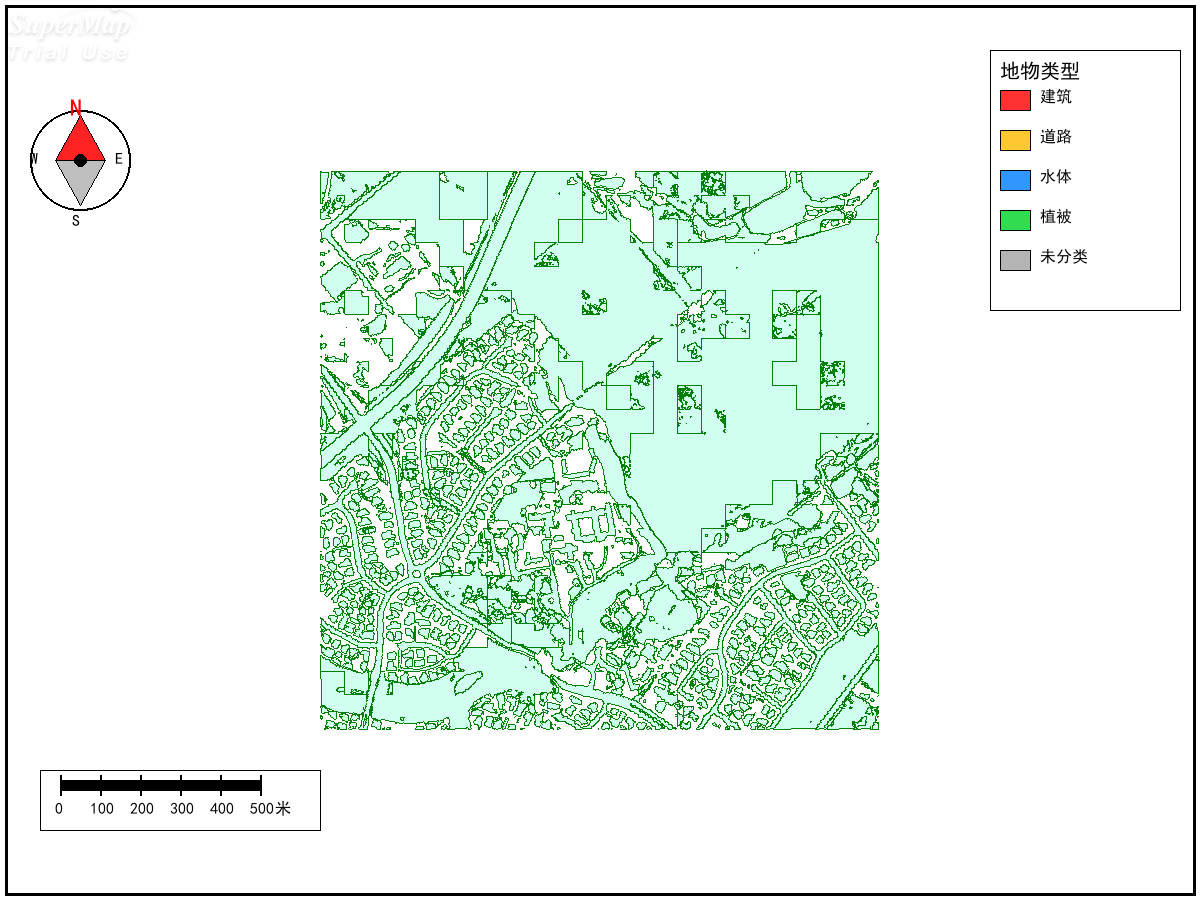
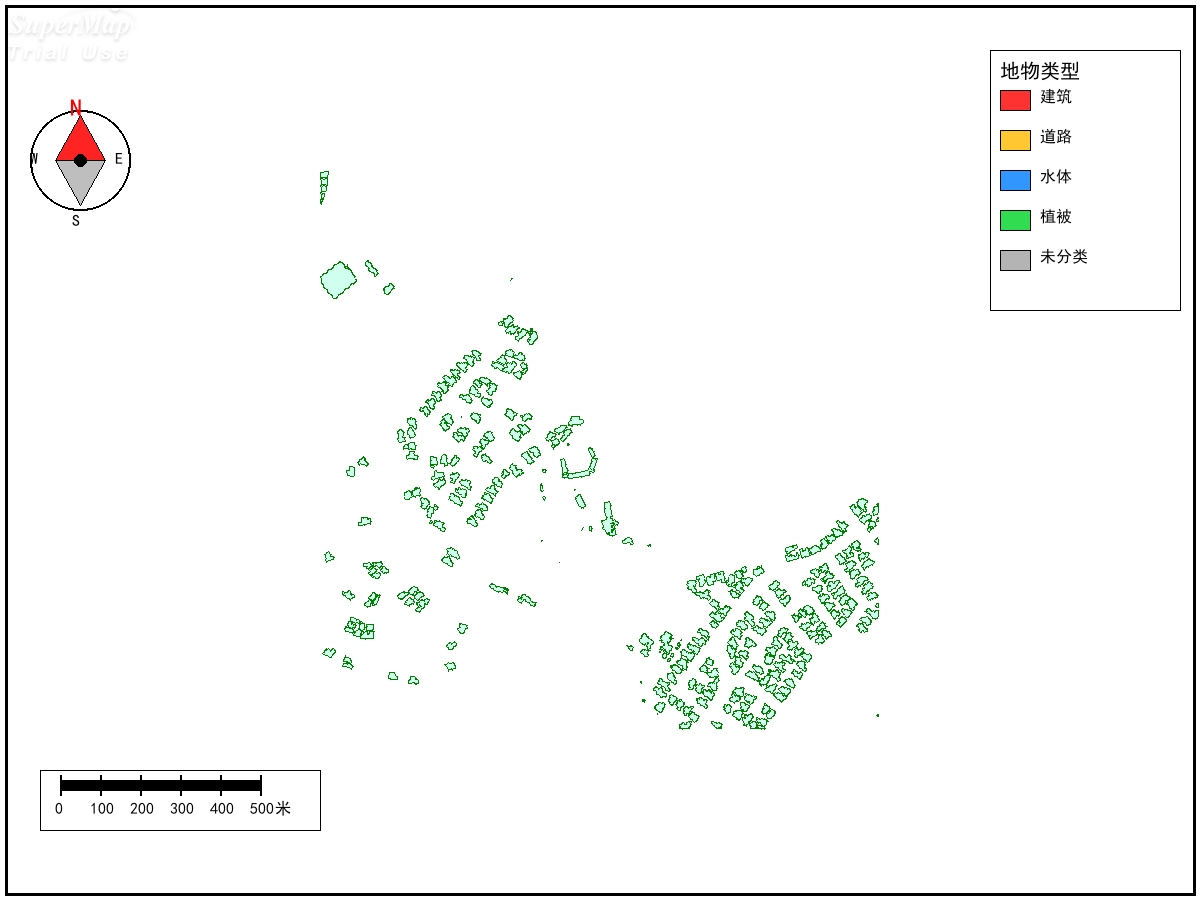
删除未接入的精度验证接口，更新专题图示例图

Changed region(s): [[0.2467, 0.1867, 0.74, 0.8089]]

diff --git a/变化检测/src/change_detection_ui.py b/变化检测/src/change_detection_ui.py
@@ -260,7 +260,7 @@ class MainWindow(QMainWindow):
         self._mode = M_DETECT
         self._sub_detect = 0   # 0=单次 1=增强 2=分类 3=矢量
         self._sub_batch = 0    # 0=CSV 1=文件夹 2=仪表盘 3=报告
-        self._sub_result = 0   # 0=对比 1=属性 2=精度 3=专题 4=导出
+        self._sub_result = 0   # 0=对比 1=属性 2=专题 3=导出
 
         self._build_menubar()
         self._build_toolbar()
@@ -341,7 +341,7 @@ class MainWindow(QMainWindow):
 
         # 结果工具
         self.result_menu = mb.addMenu("结果工具")
-        for name, idx in [("影像对比", 0), ("属性浏览", 1), ("精度验证", 2), ("专题图", 3), ("导出", 4)]:
+        for name, idx in [("影像对比", 0), ("属性浏览", 1), ("专题图", 2), ("导出", 3)]:
             a = QAction(name, self)
             a.triggered.connect(lambda _, i=idx: self._switch_panel(M_RESULT, i))
             self.result_menu.addAction(a)
@@ -411,7 +411,6 @@ class MainWindow(QMainWindow):
         self._result_panels = QStackedWidget()
         self._result_panels.addWidget(self._panel_preview())
         self._result_panels.addWidget(self._panel_table())
-        self._result_panels.addWidget(self._panel_accuracy())
         self._result_panels.addWidget(self._panel_thematic())
         self._result_panels.addWidget(self._panel_export())
         self._panel_stack.addWidget(self._result_panels)
@@ -636,32 +635,6 @@ class MainWindow(QMainWindow):
         ly.addWidget(g); ly.addStretch()
         self._log("属性浏览 — 选择数据源后点击运行", "dim"); return w
 
-    def _panel_accuracy(self):
-        w = QWidget(); ly = QVBoxLayout(w); ly.setContentsMargins(20, 16, 20, 16); ly.setSpacing(10)
-        g = QGroupBox("精度验证"); gl = QVBoxLayout(g); gl.setSpacing(8)
-        self._acc_det = QLineEdit(); self._acc_gt = QLineEdit()
-        gl.addLayout(self._row("检测结果", self._acc_det,
-            lambda: self._open_file(self._acc_det, "UDBX (*.udbx)")))
-        gl.addLayout(self._row("真值数据", self._acc_gt,
-            lambda: self._open_file(self._acc_gt, "矢量 (*.udbx *.shp)")))
-        th_r = QHBoxLayout(); th_r.addWidget(QLabel("IoU阈值"))
-        self._acc_th = QDoubleSpinBox(); self._acc_th.setRange(0.1, 1.0)
-        self._acc_th.setValue(0.5); self._acc_th.setSingleStep(0.05)
-        th_r.addWidget(self._acc_th); th_r.addStretch(); gl.addLayout(th_r)
-        # 指标卡片
-        g2 = QGroupBox("指标"); gl2 = QGridLayout(g2); gl2.setSpacing(8)
-        self._acc_lbls = {}
-        for idx, (name, _) in enumerate([("IoU","交集/并集"),("Precision","精确率"),
-            ("Recall","召回率"),("F1","F1值"),("OA","总体精度"),("Kappa","Kappa")]):
-            f = QFrame(); f.setStyleSheet("background:#f8f9fb;border:1px solid #dce3ec;border-radius:4px;padding:12px;")
-            fl = QVBoxLayout(f); fl.setAlignment(Qt.AlignCenter)
-            vl = QLabel("--"); vl.setStyleSheet("font-size:22px;font-weight:bold;color:#4a7cf7;")
-            vl.setAlignment(Qt.AlignCenter); fl.addWidget(vl)
-            fl.addWidget(QLabel(name, alignment=Qt.AlignCenter))
-            self._acc_lbls[name] = vl; gl2.addWidget(f, idx//3, idx%3)
-        gl.addWidget(g2); ly.addWidget(g); ly.addStretch()
-        self._log("[接口] 精度验证 — 李晨曦", "warning"); return w
-
     def _panel_thematic(self):
         w = QWidget(); ly = QVBoxLayout(w); ly.setContentsMargins(20, 16, 20, 16); ly.setSpacing(10)
         g = QGroupBox("专题图"); gl = QVBoxLayout(g); gl.setSpacing(8)
@@ -707,7 +680,7 @@ class MainWindow(QMainWindow):
             self._tb_run.setVisible(sub < 2 or sub == 4)
         else:
             self._sub_result = sub; self._result_panels.setCurrentIndex(sub)
-            self._tb_run.setText(["▶ 加载预览", "▶ 加载属性", "▶ 精度验证", "▶ 专题图", "▶ 导出"][sub])
+            self._tb_run.setText(["▶ 加载预览", "▶ 加载属性", "▶ 专题图", "▶ 导出"][sub])
 
     # ═══════════════════════════════════════════════════
     # 运行
@@ -719,8 +692,8 @@ class MainWindow(QMainWindow):
         elif self._mode == M_BATCH:
             {0: self._r_csv, 1: self._r_folder, 4: self._r_pipeline}[self._sub_batch]()
         elif self._mode == M_RESULT:
-            {0: self._r_preview, 1: self._r_table, 2: self._r_accuracy,
-             3: self._r_thematic, 4: self._r_export}.get(self._sub_result, lambda: self._log("接口预留 — 等待接入", "info"))()
+            {0: self._r_preview, 1: self._r_table,
+             2: self._r_thematic, 3: self._r_export}.get(self._sub_result, lambda: self._log("接口预留 — 等待接入", "info"))()
 
     def _start(self, name):
         self._tb_run.setEnabled(False); self._progress.setVisible(True)
@@ -997,11 +970,6 @@ class MainWindow(QMainWindow):
         bwrap = QHBoxLayout(); bwrap.addStretch(); bwrap.addWidget(btn)
         lay.addLayout(bwrap)
         dlg.exec_()
-
-    # ── 精度验证 ──（由李晨曦负责，暂未接入）
-    def _r_accuracy(self):
-        self._log("精度验证模块由李晨曦负责开发，暂未接入本界面。", "warning")
-        QMessageBox.information(self, "精度验证", "精度验证模块由李晨曦负责开发，暂未接入本界面。")
 
     # ── 统计报告 ──（基于 li_batch_api 的统计 Excel 生成 Word/PDF/图表）
     def _r_report(self, kind):
